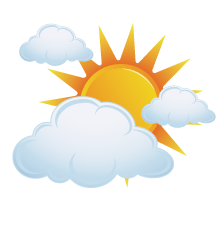
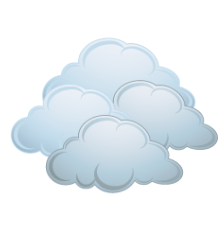
1

diff --git a/script.js b/script.js
@@ -7,17 +7,26 @@ const API_URL = `https://api.open-meteo.com/v1/forecast?latitude=${latitude}&lon
 
 // 🖼 Icônes météo selon code Open-Meteo
 const iconMap = {
+	//Jour
   0: "dayclear.png",         // ciel clair
-  1: "daycloudycloudy.png",  // partiellement nuageux
-  45: "fog.png",             // brouillard
-  48: "fog.png",             // brouillard givrant
-  61: "rain.png",            // pluie légère
-  71: "snow.png",            // neige légère
-  93: "nightclear.png",      // mode nuit ?
-  94: "nightcloudy.png",     // mode nuit ?
-  95: "storm.png",           // orage
-  99: "tornado.png"          // tornade ?
-  // ajouter plus d'icônes pour plus de variété à faire
+  1: "daypcloudy.png",  // partiellement nuageux
+  2: "dayloudy.png",  // couvert
+  45: "dayfog.png",             // brouillard
+  48: "dayfreezefog.png",             // brouillard givrant
+  61: "dayrain.png",            // pluie légère
+  71: "daysnow.png",            // neige légère
+  97: "daystorm.png",            // orage
+	//Nuit
+  90: "nightclear.png",         // nuit clair
+  91: "nightpcloudy.png",  // nuit partiellement nuageux
+  92: "nightloudy.png",  // nuit couverte
+  93: "nightfog.png",             // brouillard nocturne
+  94: "nightfreezefog.png",             // brouillard nocturne givrant
+  95: "nightrain.png",            // nuit pluie
+  96: "nightsnow.png",            // nuit neige
+  98: "nightstorm.png",            // orage nuit
+	//Catastrophe
+  99: "tornado.png"          // tornade
 };
 
 // 🔁 Mise à jour du HUD météo

diff --git a/index.html b/index.html
@@ -17,12 +17,12 @@
 			<!-- 🌡 Températures -->
 			<div class="temps">
 				<div class="temp-block">
-					<img src="assets/img/farenheit_mini.png" class="thermo" />
+					<img src="assets/img/thermo_blue.png" class="thermo" />
 					<!-- <p class="temp-label">MIN</p> -->
 					<p class="temp-value1" id="temp-min">--°</p>
 				</div>
 				<div class="temp-block">
-					<img src="assets/img/farenheit_max.png" class="thermo" />
+					<img src="assets/img/thermo_red.png" class="thermo" />
 					<!--<p class="temp-label">MAX</p> -->
 					<p class="temp-value2" id="temp-max">--°</p>
 				</div>
@@ -33,9 +33,9 @@
 				<p class="timeline-title">Previous (6 Next Hours)</p>
 				<div class="timeline-temps">
 					<img id="prev-icon" src="assets/img/default.png" class="timeline-icon" />
-					<img src="assets/img/farenheit_mini.png" class="thermo2" />
+					<img src="assets/img/thermo_blue.png" class="thermo2" />
 					<p id="prev-min">--°</p>
-					<img src="assets/img/farenheit_max.png" class="thermo2" />
+					<img src="assets/img/thermo_red.png" class="thermo2" />
 					<p id="prev-max">--°</p>
 				</div>
 			</div>
